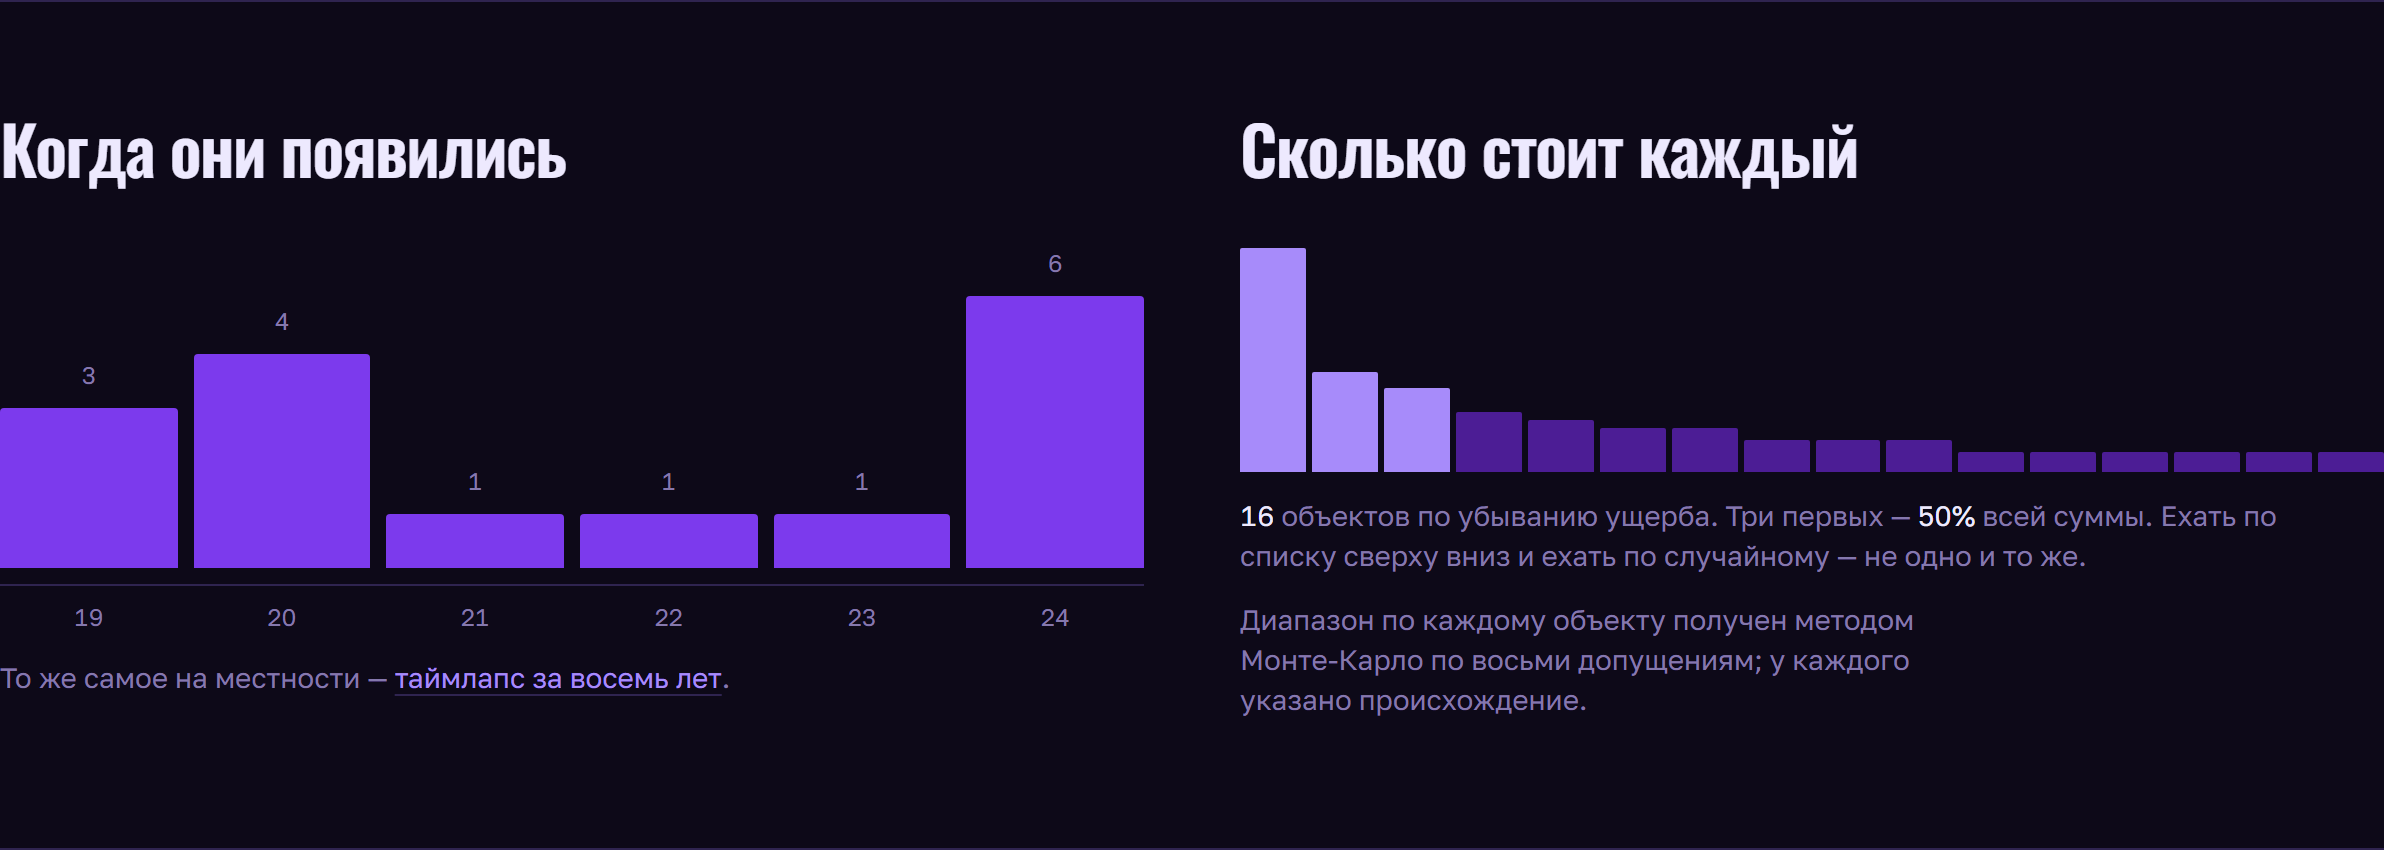
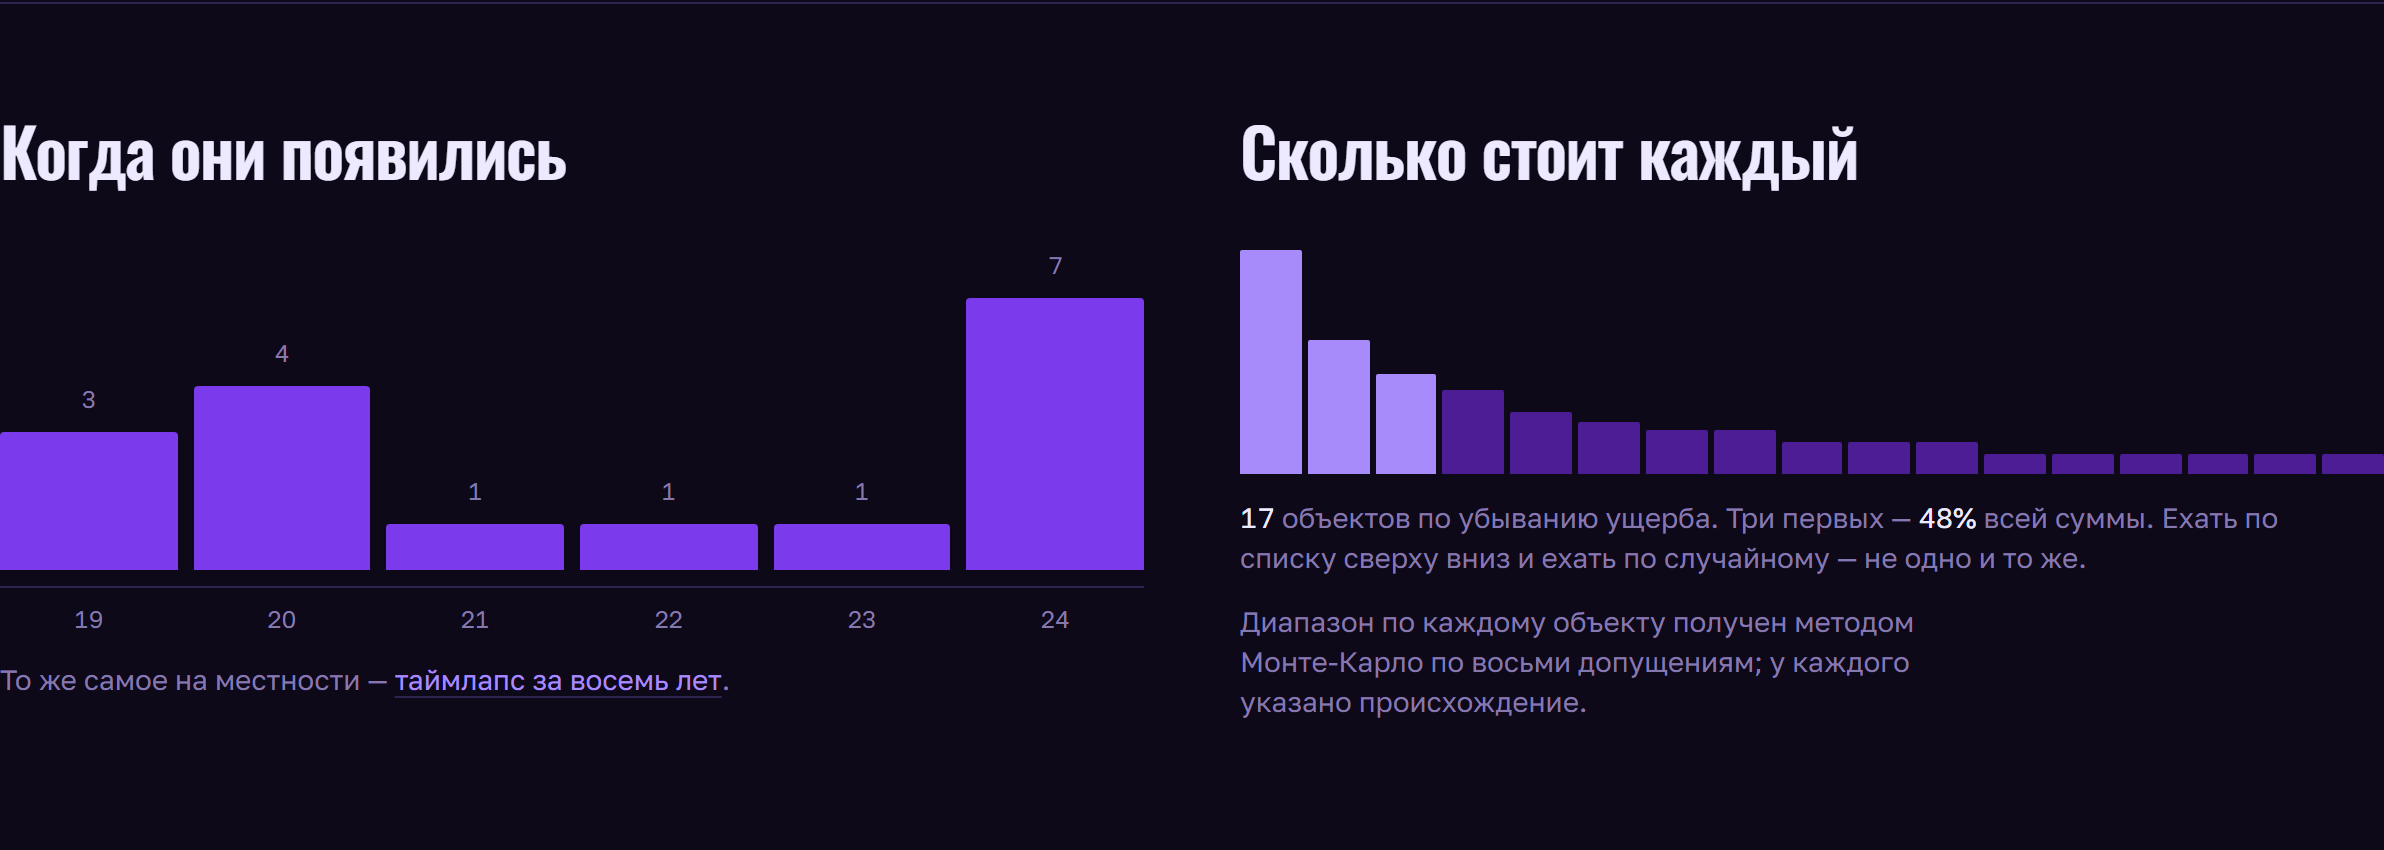
Воронка на лендинге не сходилась: столбцы 343 при 385 кандидатах

diff --git a/web-next/src/App.tsx b/web-next/src/App.tsx
@@ -68,9 +68,9 @@ type Metrics = { lift: number; pr_auc_future: number; base_rate_future: number; 
      границ здесь не измерение, а совпадение подходящего размера. */
   pr_auc_low?: number; pr_auc_high?: number; lift_low?: number; positives_future?: number };
 
-function stagesFrom(funnel: Funnel | null): Stage[] {
+function stagesFrom(funnel: Funnel | null, kept: number): Stage[] {
   if (!funnel?.rejected) return [];
-  return Object.entries(funnel.rejected)
+  const stages = Object.entries(funnel.rejected)
     .filter(([reason]) => reason !== 'ПРОШЁЛ ОТСЕВ')
     .sort((a, b) => b[1] - a[1])
     .map(([reason, count]) => ({
@@ -80,6 +80,26 @@ function stagesFrom(funnel: Funnel | null): Stage[] {
       detail: STAGE_TEXT[reason]?.detail ?? '',
       count,
     }));
+
+  /* Последний шаг — человек, и без него воронка не сходилась.
+     Автоматический отсев снимает 326 из 385, остаётся 59 — а на карте их
+     семнадцать. Сорок два объекта убрал не алгоритм, а просмотр глазами по
+     снимкам 0,5 м, и в воронке этого шага не было: столбцы давали 343 при
+     385 кандидатах. Несходящаяся сумма на лендинге — первое, что считает
+     проверяющий.
+     Шаг стоит показывать ещё и потому, что он сильный: команда, которая
+     отвергла сорок две собственные находки, вызывает больше доверия, чем
+     команда с ровным списком. */
+  const passed = funnel.rejected['ПРОШЁЛ ОТСЕВ'] ?? 0;
+  const byEye = passed - kept;
+  if (byEye > 0) {
+    stages.push({
+      label: 'Отвергнуто при просмотре',
+      detail: 'человек посмотрел каждый по снимку 0,5 м — склад, стройка, старица',
+      count: byEye,
+    });
+  }
+  return stages;
 }
 
 const LIMITS: [string, string][] = [
@@ -408,7 +428,7 @@ export default function App() {
               Причина отсева хранится по каждому. На вопрос «а почему выкинули
               вот это» отвечает файл, а не память выступающего.
             </p>
-            <Funnel stages={stagesFrom(funnel)} kept={totals.count} />
+            <Funnel stages={stagesFrom(funnel, totals.count)} kept={totals.count} />
           </section>
         )}
 

diff --git a/tests/test_city_list.py b/tests/test_city_list.py
@@ -86,3 +86,46 @@ class TestCityListMatchesTheSite:
             assert short and len(short) <= 12, (
                 f"{city['id']}: подпись {short!r} — пустая или длиннее 12 знаков"
             )
+
+
+class TestFunnelAddsUp:
+    """Столбцы воронки обязаны давать в сумме число сырых кандидатов.
+
+    Несходящаяся сумма на лендинге — первое, что считает проверяющий, и
+    после этого он не верит ни одному числу на сайте.
+
+    Так и было: автоматический отсев снимал 326 из 385, оставалось 59 — а
+    на карте семнадцать. Сорок два объекта убрал не алгоритм, а просмотр
+    глазами, и этого шага в воронке не было. Столбцы давали 343 при 385.
+
+    Шаг стоит показывать ещё и потому, что он сильный: команда, отвергшая
+    сорок две собственные находки, вызывает больше доверия, чем команда с
+    ровным списком.
+    """
+
+    def test_rejected_plus_published_equals_raw(self):
+        import json
+
+        import geopandas as gpd
+
+        funnel_path = ROOT / "web-next/public/data/funnel.json"
+        published_path = ROOT / "web-next/public/data/candidates.geojson"
+        if not (funnel_path.exists() and published_path.exists()):
+            pytest.skip("нет выгрузки")
+
+        funnel = json.loads(funnel_path.read_text(encoding="utf-8"))
+        rejected = funnel.get("rejected") or {}
+        published = len(gpd.read_file(published_path))
+
+        auto = sum(v for k, v in rejected.items() if k != "ПРОШЁЛ ОТСЕВ")
+        passed = rejected.get("ПРОШЁЛ ОТСЕВ", 0)
+        by_eye = passed - published
+
+        assert by_eye >= 0, (
+            f"на сайте {published} объектов, а отсев пропустил только {passed} — "
+            "выгрузка не может содержать больше, чем прошло фильтр"
+        )
+        assert auto + by_eye + published == funnel["raw"], (
+            f"воронка: {auto} автоотсев + {by_eye} просмотр + {published} на сайте "
+            f"= {auto + by_eye + published}, а сырых кандидатов {funnel['raw']}"
+        )
